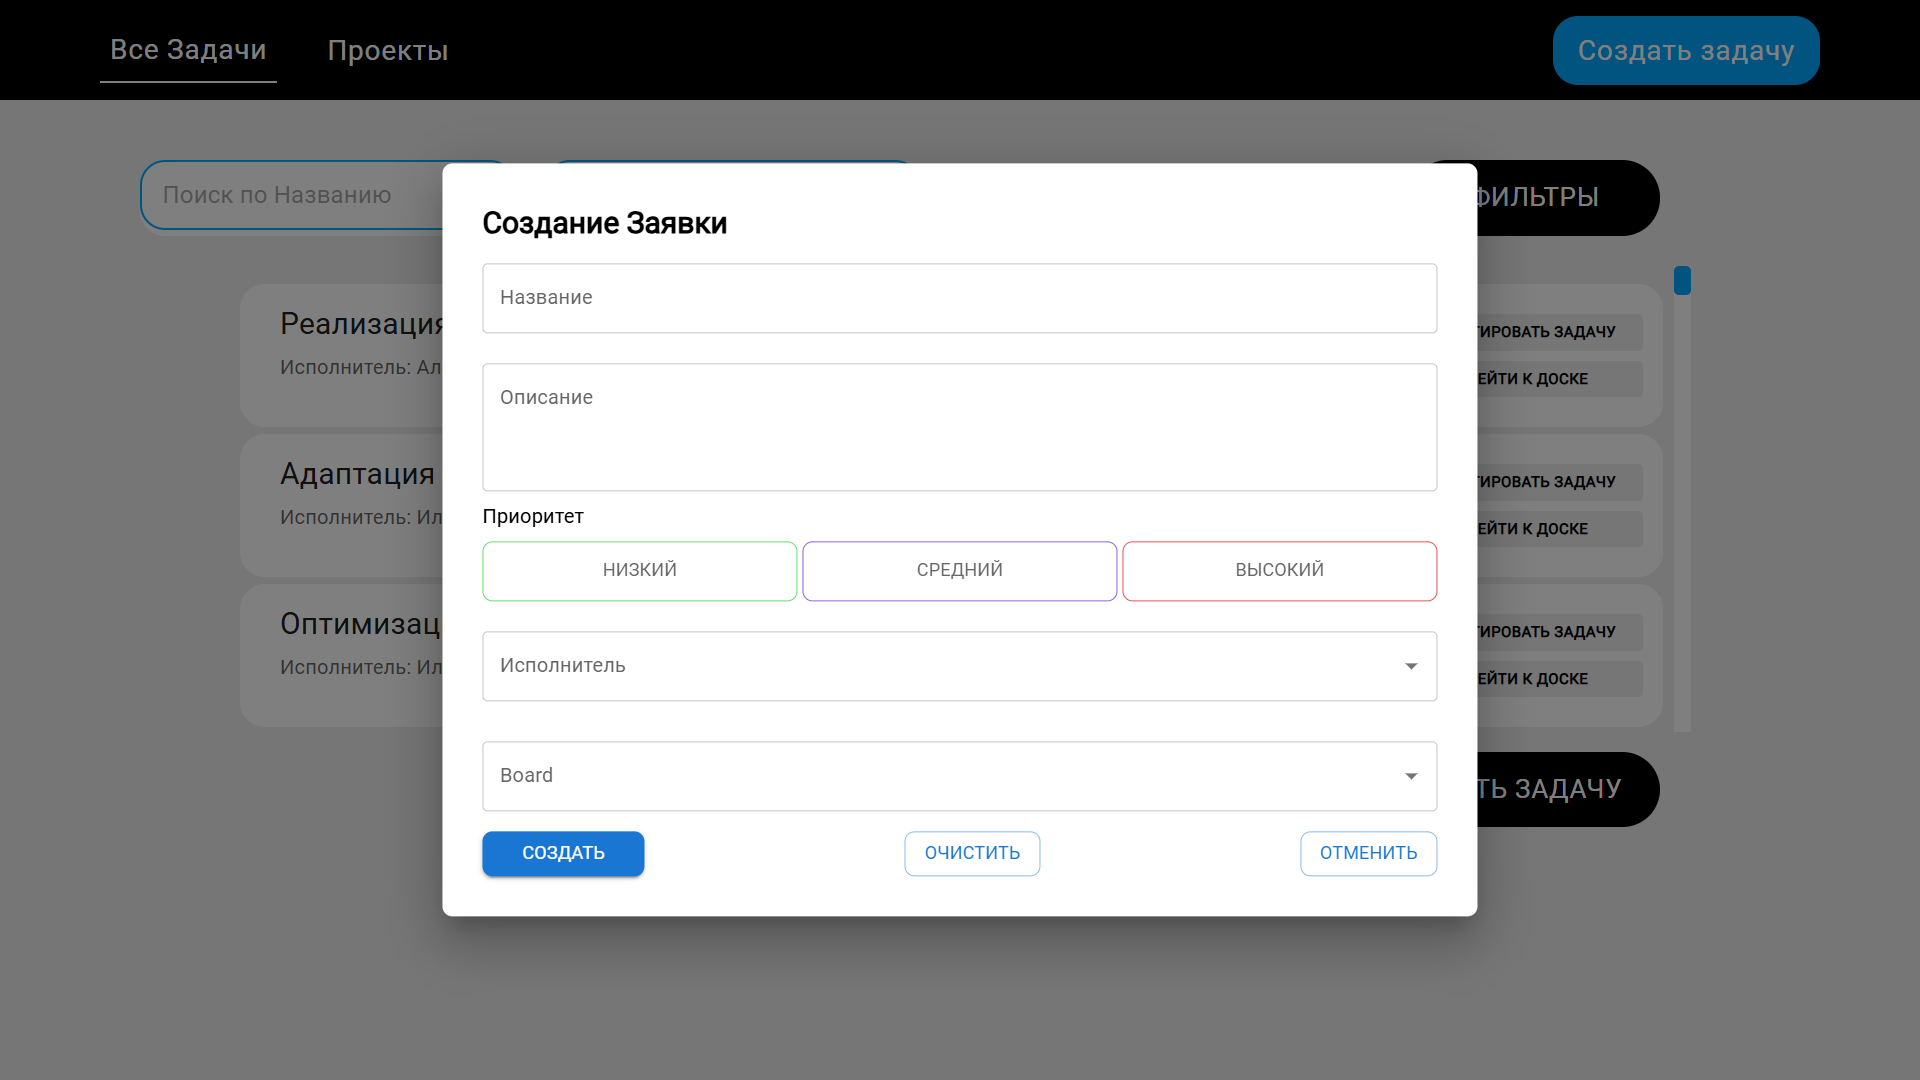
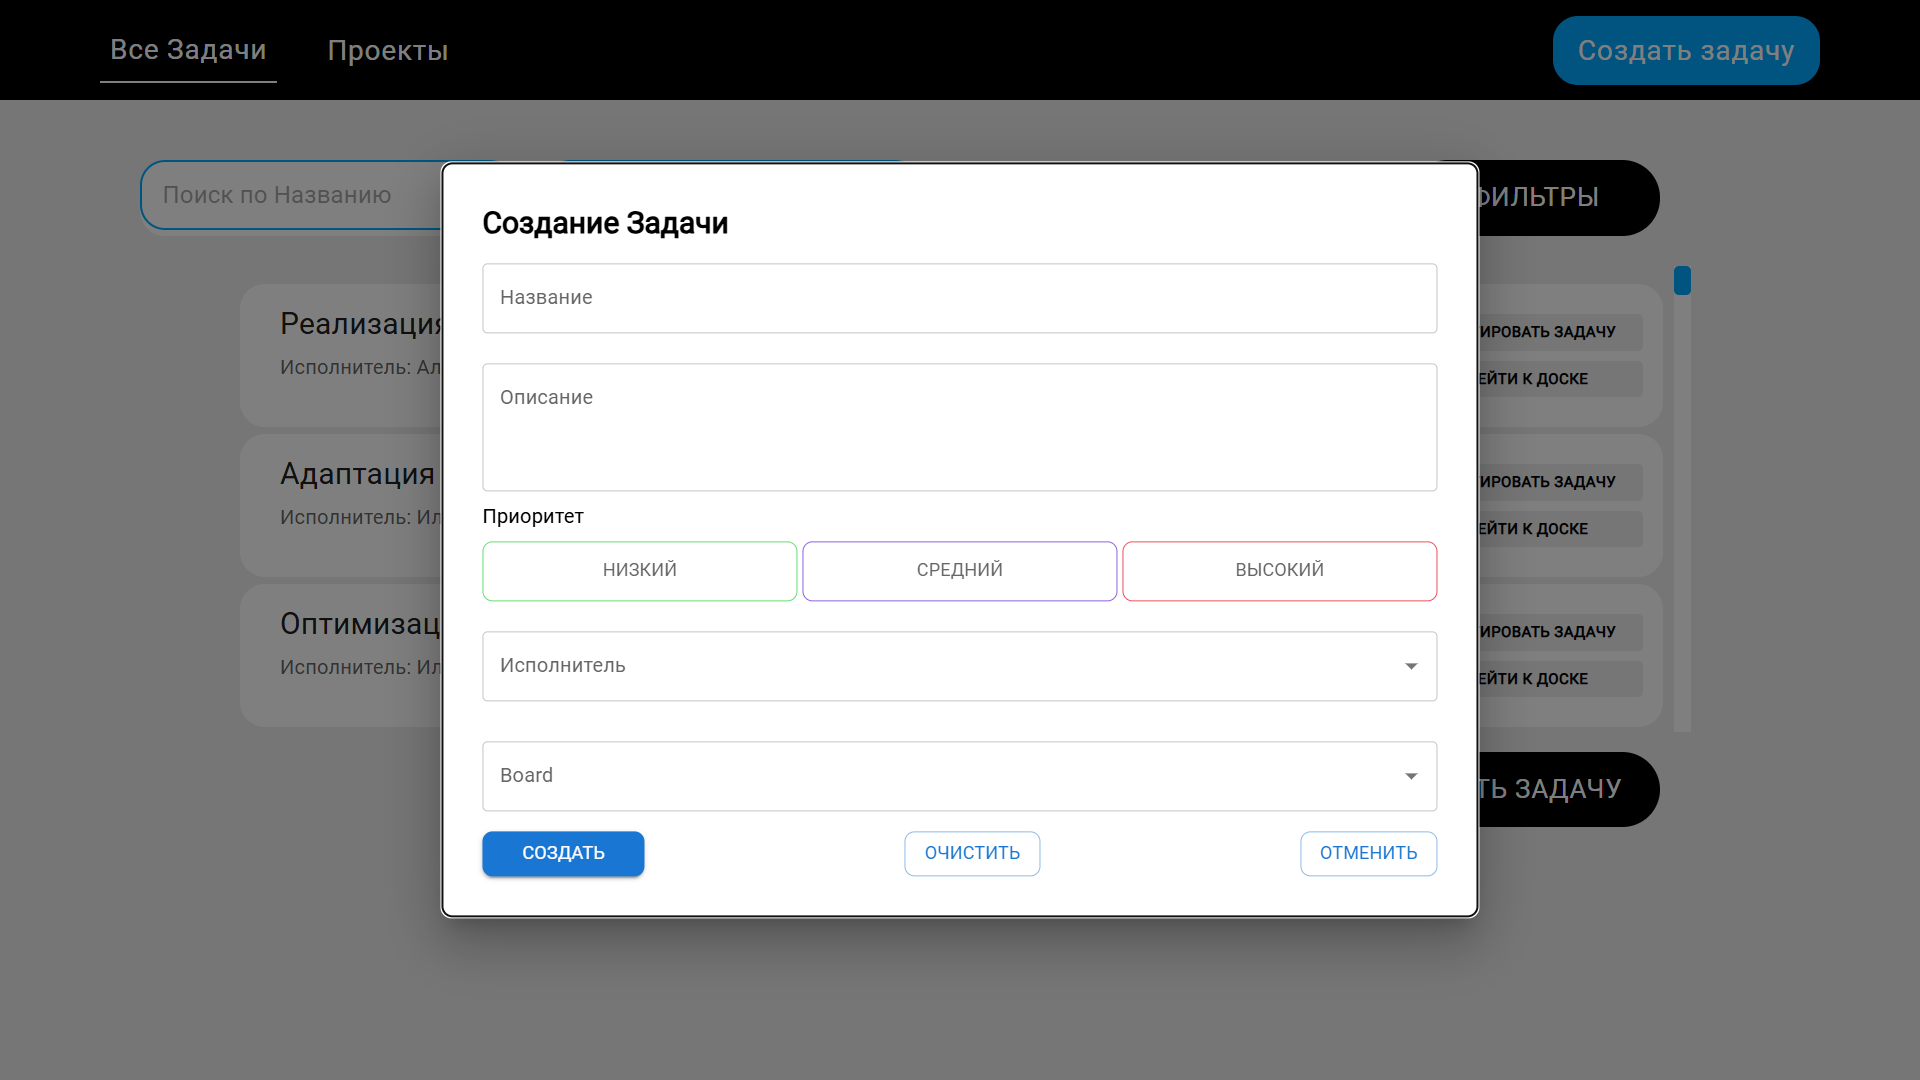
Окончательный Финал

Changed region(s): [[0.2188, 0.825, 0.7812, 0.8556], [0.3438, 0.1833, 0.375, 0.2139]]

diff --git a/client/src/components/CreateTaskForm.tsx b/client/src/components/CreateTaskForm.tsx
@@ -117,7 +117,7 @@ const CreateTaskForm: React.FC<CreateTaskFormProps> = ({ open, onClose }) => {
         }}
       >
         <Typography variant="h5" sx={{ mb: 0, fontWeight: 'bold' }}>
-          Создание Заявки
+          Создание Задачи
         </Typography>
         <form onSubmit={handleSubmit(onSubmit)}>
           <Controller
